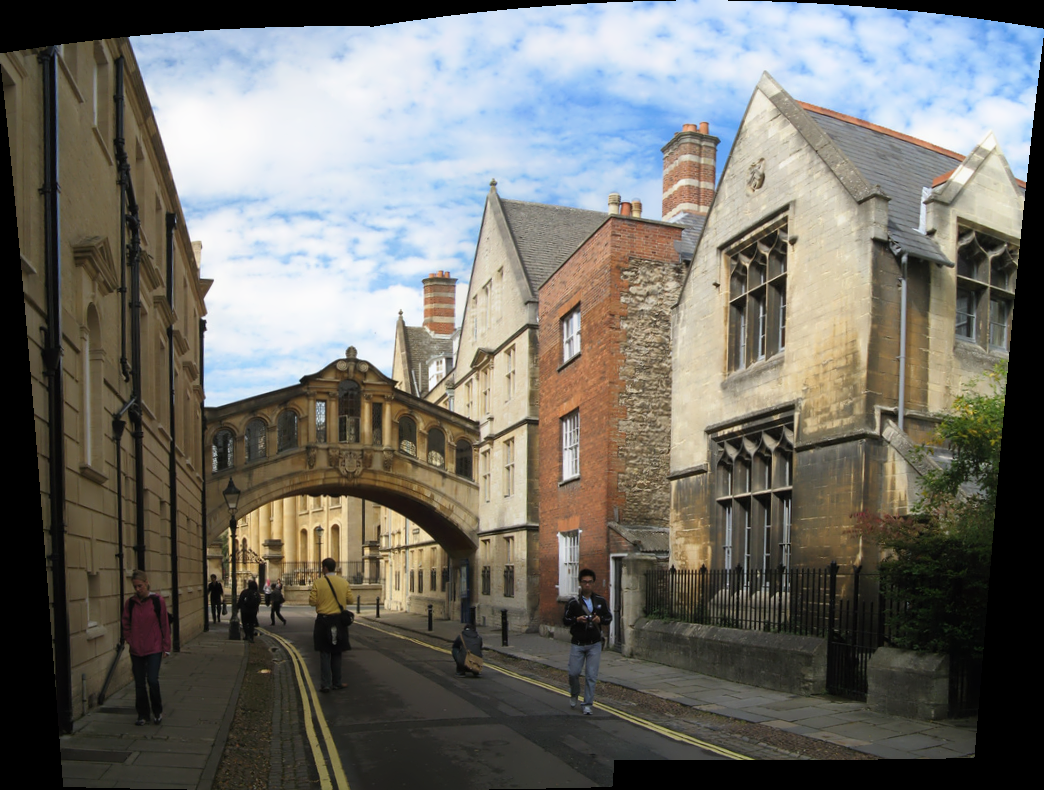
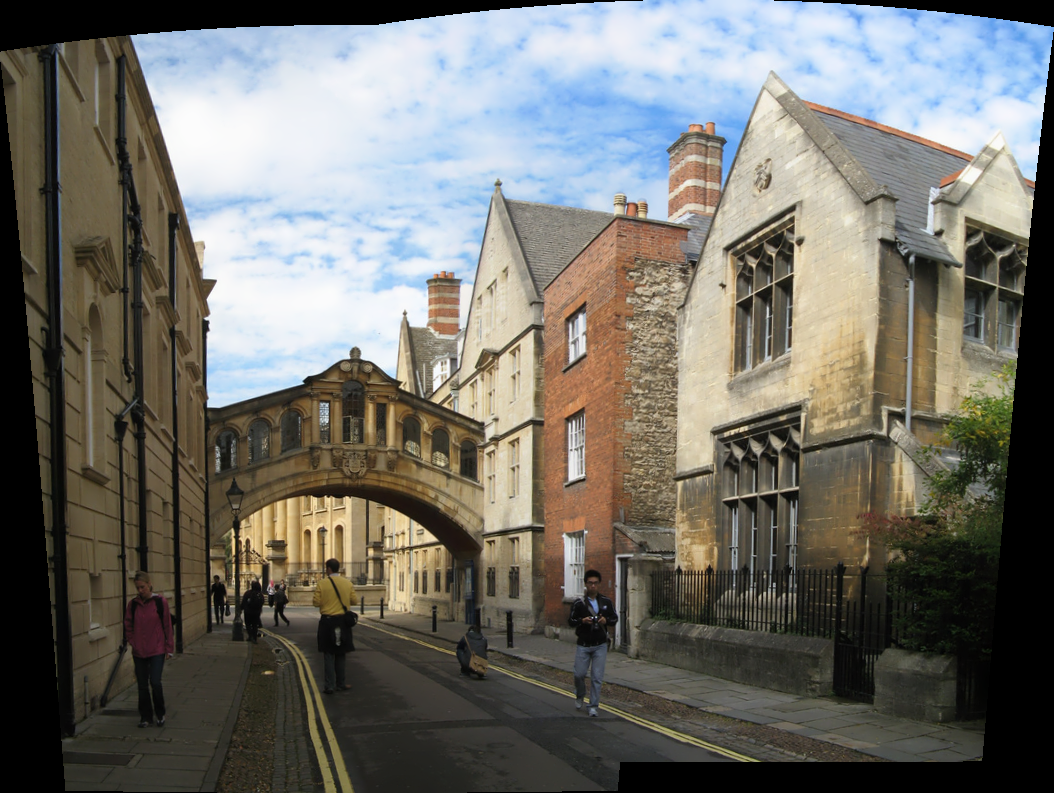
update panorama mine

diff --git a/src/myPanorama.py b/src/myPanorama.py
@@ -1,8 +1,131 @@
 '''
+    ! generatePanorama FUNCTION !
+    1) read grayscale frames (by their order).
+    2) find & match features, between each pair of consecutive frames - findFeatures & matchFeatures FUNCTIONS (in geometricTransformation.py)
+    3) register homography pairs - ransacHomography FUNCTION (in geometricTransformation.py)
+    4) display inliers & outliers matches, between each pair of consecutive frames - displayMatches FUNCTION (in display.py)
+    5) transform the homograpies - accumulateHomographies FUNCTION (in panoramaStitching.py)
+    6) load the RGB frames  (in panoramaStitching.py) ????
+    7) render panorama of each color channel - renderPanorama FUNCTION (in panoramaStitching.py)
 
-    1) upload 2 panorama sequences having the same name conventions the examples - to /data/inp/mine
-    2) this class will produce panoramas out of our input images sequences.
-        same as main.py but with our inputs ???
-    3) output the 2 panoramas - to /data/out/mine
+    else:
+    upload 2 panorama sequences having the same name conventions the examples - in /data/inp/mine
 
 '''
+
+from __future__ import print_function
+import cv2 as cv2
+import math
+import os
+
+from collections import OrderedDict
+from geometricTransformation import *
+from panoramaStitching import *
+
+
+def loadImagesFromFolder(folder, flag):
+    images = []
+    imgName = ""
+    imagesDict = OrderedDict()
+
+    for fileName in os.listdir(folder):
+        # first image in folder
+        if not imgName:
+            imgName = fileName[:-5]
+
+        # new images for new panorama
+        if fileName[:-5] != imgName:
+            imagesDict.setdefault(imgName, []).extend(images)
+            imgName = fileName[:-5]  # new name for new panorama
+            images = []  # new list of images for the panorama
+
+        # image is for the same panorama
+        img = cv2.imread(os.path.join(folder, fileName), flag)
+        if img is not None:
+            images.append(img)
+
+    # last image in folder, need to add the last list to dictionary
+    imagesDict.setdefault(imgName, []).extend(images)
+    return imagesDict
+
+
+def generatePanorama():
+    folderPath = '../data/inp/examples'
+    dictGBRImages = loadImagesFromFolder(folderPath, cv2.IMREAD_COLOR)
+    dictGrayImages = loadImagesFromFolder(folderPath, cv2.IMREAD_GRAYSCALE)
+
+
+    for imgKey in dictGrayImages:  # runs over all images sequences that makes one new panorama
+        counter = 1
+        my_images_GBR = dictGBRImages[imgKey]
+        my_images_gray = dictGrayImages[imgKey]
+
+
+        for k in my_images_gray:  # runs over each consecutive pair of images
+            if k is None:
+                print('Could not open or find the images!')
+                exit(0)
+
+        homography_list = []  # size = len(my_images)-1
+
+        for k in range(len(my_images_gray) - 1):  # each consecutive images
+            fileName = imgKey + str(counter)  # indexing output file name
+            corrList = findMatchFeatures(my_images_gray[k], my_images_gray[k + 1])
+            #  run RANSAC algorithm
+            homography, inliersList = ransacHomography(corrList, 0.75)
+            homography_list.append(homography)
+            displayMatches(my_images_gray[k], my_images_gray[k + 1], inliersList, fileName)
+            # to increase image indexing
+            counter += 1
+
+            # ************************ AFTER RUNNING ALL PAIR IMAGES ************************
+        m = math.ceil(len(my_images_gray) / 2) - 1  # Index of middle image rounded up, for common coordinate system
+        Htot = accumulateHomographies(homography_list, m)
+        print("Htot for " + imgKey + " with " + str(m) + " :" + str(len(Htot)) + " Homography list: " + " :" + str(
+            len(homography_list)))
+        panoImg = renderPanorama(folderPath, my_images_GBR, Htot)
+        outputPanorama(panoImg, imgKey)
+
+
+def generatePanorama_mine():
+    folderPath = '../data/inp/mine'
+    dictGBRImages = loadImagesFromFolder(folderPath, cv2.IMREAD_COLOR)
+    dictGrayImages = loadImagesFromFolder(folderPath, cv2.IMREAD_GRAYSCALE)
+
+    for imgKey in dictGrayImages:  # runs over all images sequences that makes one new panorama
+        counter = 1
+        my_images_GBR = dictGBRImages[imgKey]
+        my_images_gray = dictGrayImages[imgKey]
+        for k in my_images_gray:  # runs over each consecutive pair of images
+            if k is None:
+                print('Could not open or find the images!')
+                exit(0)
+
+        homography_list = []  # size = len(my_images)-1
+
+        for k in range(len(my_images_gray) - 1):  # each consecutive images
+            fileName = imgKey + str(counter)  # indexing output file name
+            corrList = findMatchFeatures(my_images_gray[k], my_images_gray[k + 1])
+            #  run RANSAC algorithm
+            homography, inliersList = ransacHomography(corrList, 0.75)
+            homography_list.append(homography)
+            displayMatches(my_images_gray[k], my_images_gray[k + 1], inliersList, fileName)
+            # to increase image indexing
+            counter += 1
+
+            # ************************ AFTER RUNNING ALL PAIR IMAGES ************************
+        m = math.ceil(len(my_images_gray) / 2) - 1  # Index of middle image rounded up, for common coordinate system
+        Htot = accumulateHomographies(homography_list, m)
+        print("Htot for " + imgKey + " with " + str(m) + " :" + str(len(Htot)) + " Homography list: " + " :" + str(
+            len(homography_list)))
+        panoImg = renderPanorama(folderPath, my_images_GBR, Htot)
+        outputPanorama_mine(panoImg, imgKey)
+
+
+def main():
+    generatePanorama()
+    generatePanorama_mine()
+
+
+if __name__ == "__main__":
+     main()

diff --git a/src/panoramaStitching.py b/src/panoramaStitching.py
@@ -97,3 +97,6 @@ def trim(frame):
 
 def outputPanorama(panoImg, fileName):
     cv2.imwrite('../data/out/example/' + fileName + '.png', panoImg)
+
+def outputPanorama_mine(panoImg, fileName):
+    cv2.imwrite('../data/out/mine/' + fileName + '.jpg', panoImg)
